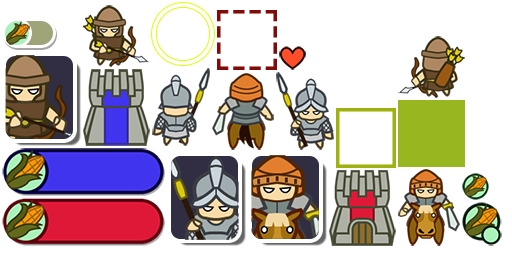
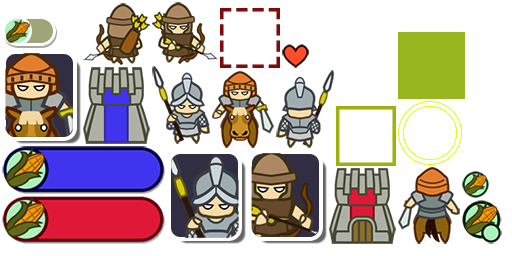
render loot mark

diff --git a/core/src/com/olan/warmonger/Tile.java b/core/src/com/olan/warmonger/Tile.java
@@ -14,6 +14,7 @@ public class Tile extends GameObject {
   private TileListener listener;
 
   private boolean markVisible = false;
+  private boolean lootMarkVisible = false;
   private boolean selectionVisible = false;
   private AtlasRegion selectionTexture;
 
@@ -38,6 +39,12 @@ public class Tile extends GameObject {
 
   @Override
   public void draw (Batch batch, float parentAlpha) {
+    if (lootMarkVisible) {
+      batch.draw(Assets.lootMark,
+          getCenterX() - Assets.lootMark.getRegionWidth() / 2,
+          getCenterY() - Assets.lootMark.getRegionHeight() / 2);
+    }
+
     if (markVisible) {
       batch.draw(Assets.tileMark,
           getCenterX() - Assets.tileMark.getRegionWidth() / 2,
@@ -50,7 +57,7 @@ public class Tile extends GameObject {
           getCenterY() - selectionTexture.getRegionHeight() / 2);
     }
 
-    if (getResource() != 0) {
+    if (getResource() != 0 && !lootMarkVisible) {
       batch.draw(Assets.corn,
           getCenterX() - Assets.corn.getRegionWidth() / 2,
           getCenterY() - Assets.corn.getRegionHeight() / 2);
@@ -94,6 +101,14 @@ public class Tile extends GameObject {
 
   public void markVisible (boolean visible) {
     this.markVisible = visible;
+  }
+
+  public void lootMarkVisible (boolean visible) {
+    this.lootMarkVisible = visible;
+  }
+
+  public boolean isLootMarkVisible () {
+    return lootMarkVisible;
   }
 
   public void selectionCombatVisible (boolean visible) {

diff --git a/core/src/com/olan/warmonger/states/ActionUnitCombat.java b/core/src/com/olan/warmonger/states/ActionUnitCombat.java
@@ -13,6 +13,11 @@ public class ActionUnitCombat implements GameDriven.Action {
   }
 
   public void enter () {
+    Tile previousTile = map.getTile(actor.getRow(), actor.getColumn());
+    if (previousTile.isLootMarkVisible()) {
+      previousTile.lootMarkVisible(false);
+    }
+
     if (actor.getTeam() == Team.BLUE) {
       targetTile = map.getTile(target.getRow() - 1, target.getColumn());
     } else {
@@ -21,10 +26,15 @@ public class ActionUnitCombat implements GameDriven.Action {
   }
 
   public void exit () {
+    if (targetTile.getResource() != 0){
+      targetTile.lootMarkVisible(true);
+    }
+
     int remainHealth = target.getHealthPoint() - actor.getAttackPoint();
     if (remainHealth <= 0) {
       map.getUnits().remove(target);
       target.remove();
+      map.getTile(target.getRow(), target.getColumn()).lootMarkVisible(false);
     } else {
       target.setHealthPoint(remainHealth);
     }

diff --git a/core/src/com/olan/warmonger/Assets.java b/core/src/com/olan/warmonger/Assets.java
@@ -16,6 +16,7 @@ public class Assets {
 
   public static AtlasRegion tile;
   public static AtlasRegion tileMark;
+  public static AtlasRegion lootMark;
   public static AtlasRegion selectionCombat;
   public static AtlasRegion selectionNormal;
 
@@ -62,6 +63,7 @@ public class Assets {
 
     tile = loadTexture("tile");
     tileMark = loadTexture("tile-mark");
+    lootMark = loadTexture("loot-mark");
     selectionCombat = loadTexture("selection-combat");
     selectionNormal = loadTexture("selection-normal");
 

diff --git a/core/src/com/olan/warmonger/states/ActionUnitMove.java b/core/src/com/olan/warmonger/states/ActionUnitMove.java
@@ -12,11 +12,16 @@ public class ActionUnitMove implements GameDriven.Action {
   }
 
   public void enter () {
-
+    Tile previousTile = map.getTile(unit.getRow(), unit.getColumn());
+    if (previousTile.isLootMarkVisible()) {
+      previousTile.lootMarkVisible(false);
+    }
   }
 
   public void exit () {
-
+    if (tile.getResource() != 0) {
+      tile.lootMarkVisible(true);
+    }
   }
 
   public void run () {
